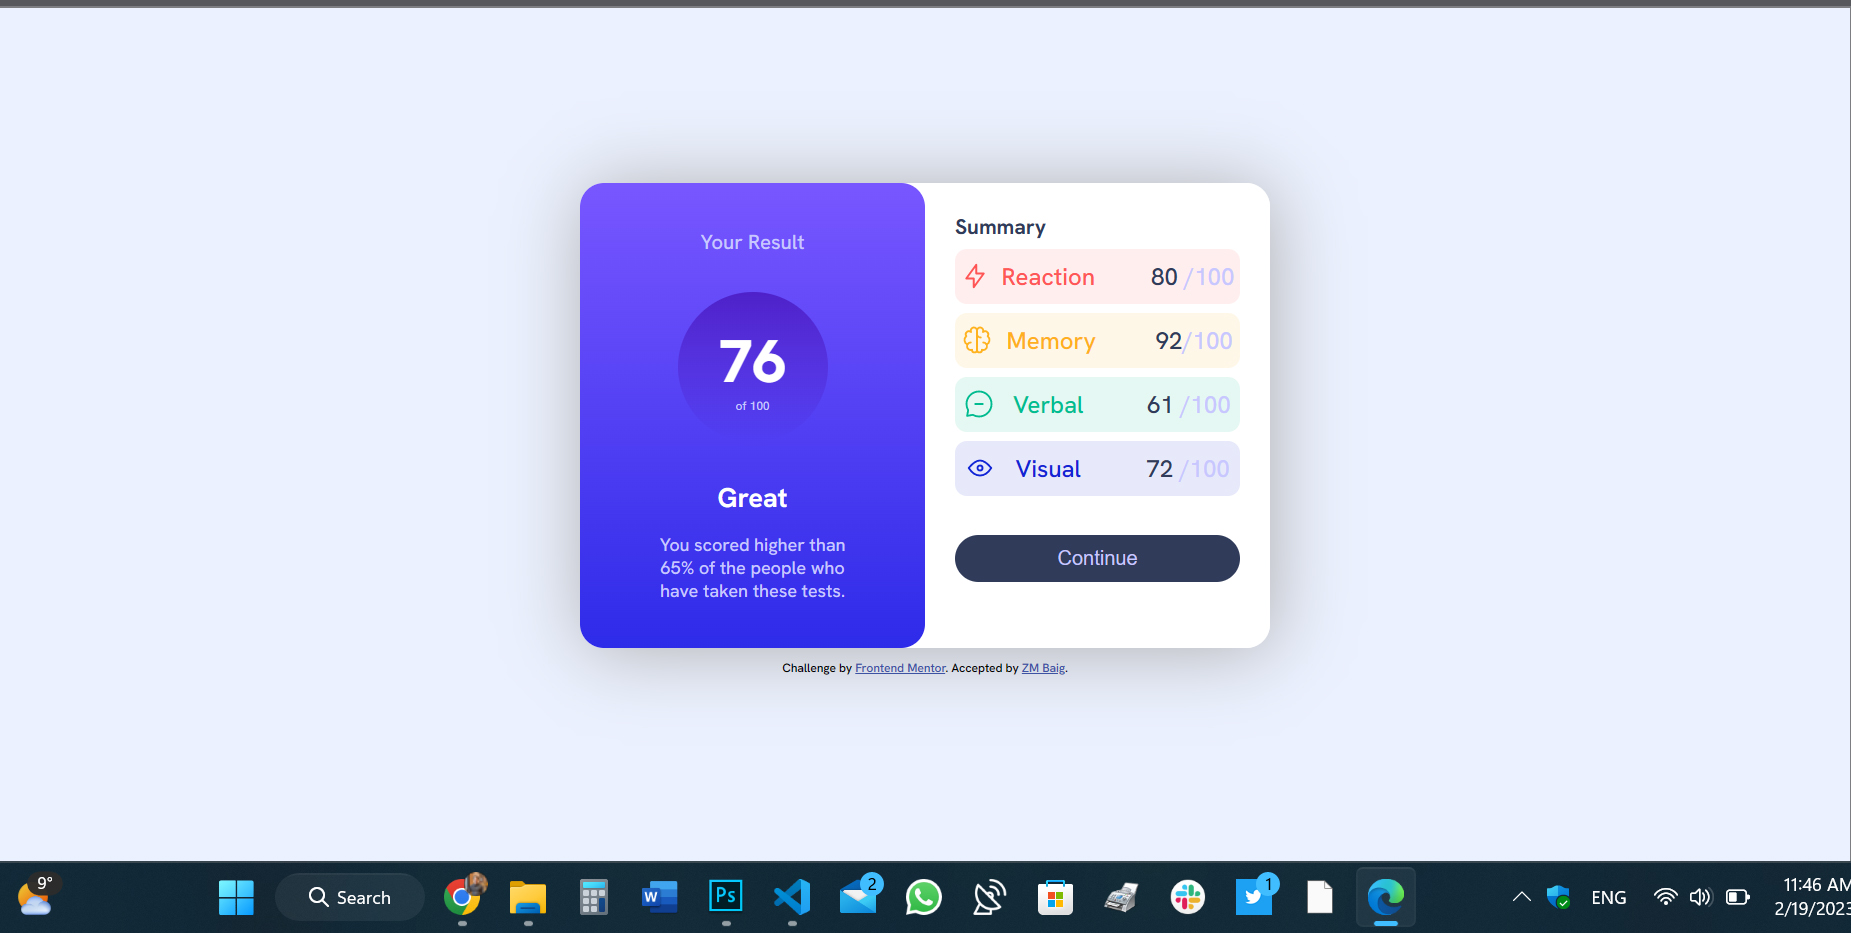
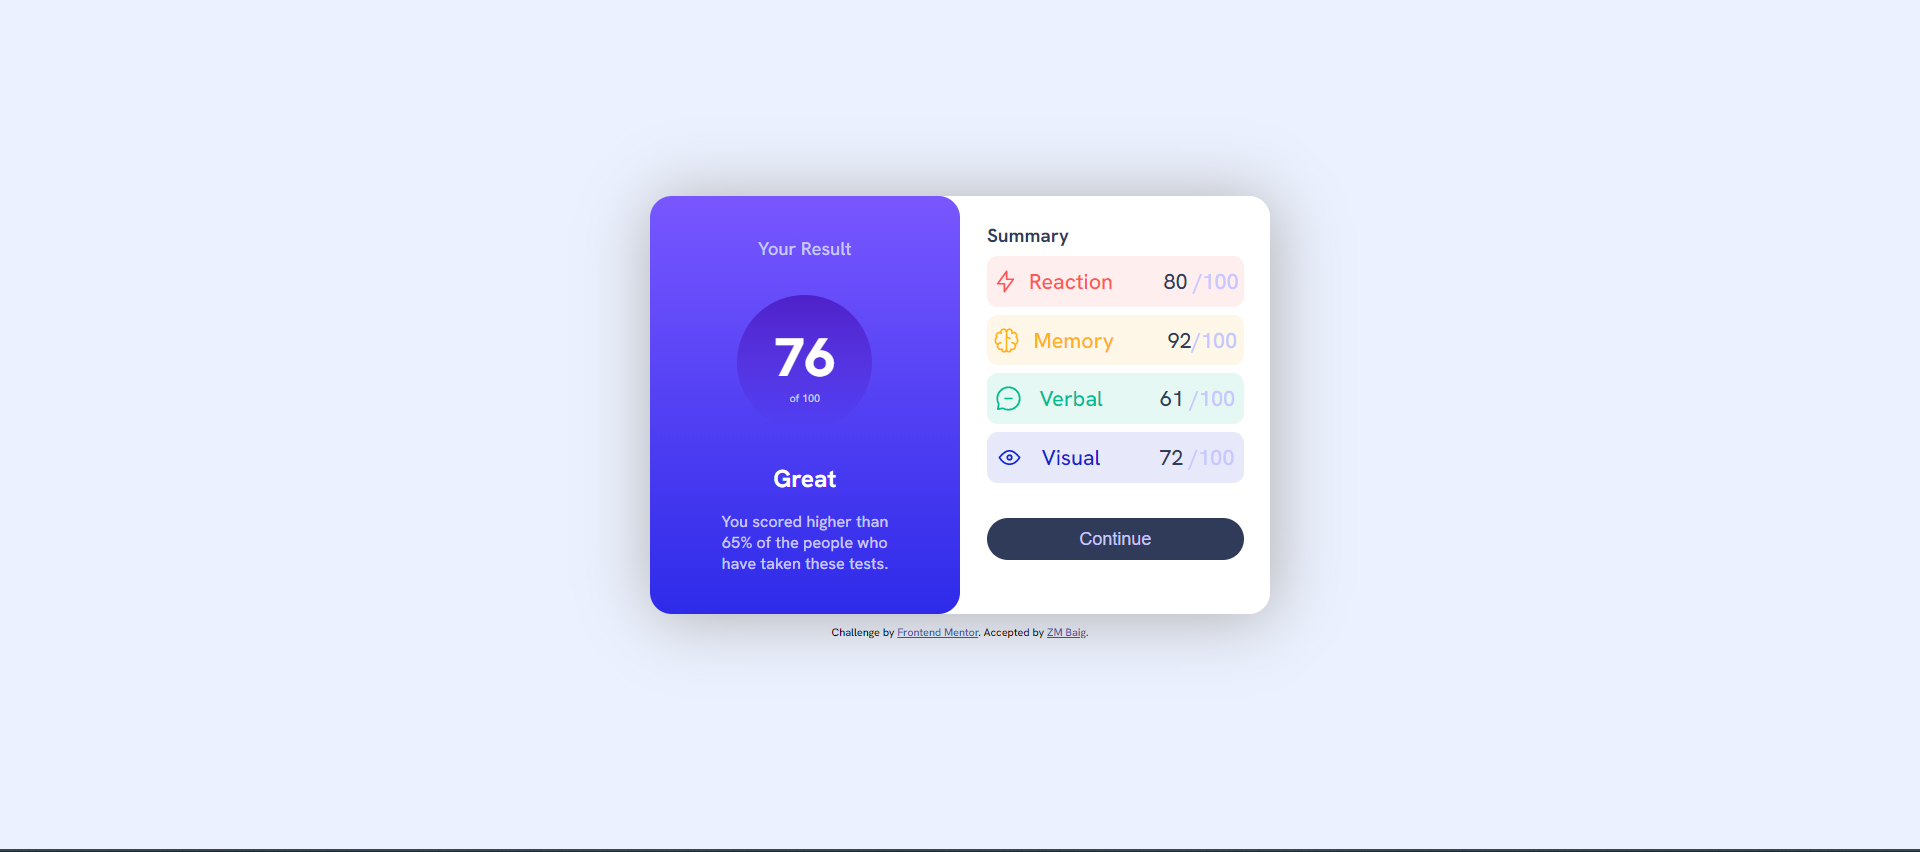
editing

Changed region(s): [[0.3079, 0.1831, 0.7083, 0.7629], [0.0, 0.9155, 1.0, 1.0], [0.0, 0.0, 1.0, 0.0305]]

diff --git a/style.css b/style.css
@@ -24,6 +24,7 @@
 body {
   background-color: hsl(221, 100%, 96%);
   font-family: "Hanken Grotesk", sans-serif;
+  font-size: 18px;
   display: flex;
   flex-direction: column;
   justify-content: center;
@@ -31,19 +32,20 @@ body {
   min-height: 100vh;
 }
 #main__container {
+  display: grid;
+  grid-template-columns: repeat(2, 1fr);
   background-color: hsl(0, 0%, 100%);
-  display: flex;
   max-height: 100vh;
-  border-radius: 16px;
-  max-height: 310px;
-  max-width: 500px;
+  border-radius: 30px;
+  height: 510px;
+  width: 740px;
   box-shadow: 2px 2px 50px rgb(175, 174, 174);
 }
 h1 {
-  font-size: 18px;
+  font-size: 1.5rem;
 }
 h2 {
-  font-size: 14px;
+  font-size: 1.125rem;
 }
 
 ul,
@@ -51,7 +53,6 @@ ol {
   list-style: none;
 }
 .left__card {
-  max-width: 230px;
   display: flex;
   flex-direction: column;
   justify-content: center;
@@ -64,7 +65,7 @@ ol {
   color: hsl(0, 0%, 100%);
   text-align: center;
   padding: 20px;
-  border-radius: 16px;
+  border-radius: 30px;
 }
 ul li:nth-child(1) {
   font-size: 12px;
@@ -76,20 +77,22 @@ ul li:nth-child(2) {
     hsla(256, 72%, 46%, 1),
     hsla(241, 72%, 46%, 0)
   );
-  padding: 20px;
   border-radius: 50%;
-  width: 100px;
-  height: 100px;
+  width: 200px;
+  height: 200px;
   text-align: center;
   margin: 25px 0;
+  display: flex;
+  flex-direction: column;
+  justify-content: center;
 }
 .big-result {
-  font-size: 2.5rem;
+  font-size: 3.125rem;
   font-weight: 800;
 }
 .your-result {
   color: hsl(241, 100%, 89%);
-  font-size: 0.85rem;
+  font-size: 1.125rem;
 }
 .hundred {
   color: hsl(241, 100%, 89%);
@@ -102,16 +105,17 @@ ul li:nth-child(2) span {
 }
 .higher-score {
   color: hsl(241, 100%, 89%);
-  font-size: 12px;
+  font-size: 0.938rem;
   padding: 12px 30px;
+  width: 80%;
 }
 
 /* -------------------------------------Summary card----------------------------------- */
 .right__card {
   background-color: hsl(0, 0%, 100%);
-  padding: 20px;
-  width: 230px;
-  border-radius: 0 16px 16px 0;
+  padding: 40px;
+  border-radius: 0 30px 30px 0;
+  width: 100%;
 }
 .sub__right__card {
   display: grid;
@@ -120,10 +124,9 @@ ol li {
   display: flex;
   align-items: center;
   justify-content: space-around;
-  gap: 30px;
-  padding: 8px 0;
-  border-radius: 8px;
-  margin: 6px 0;
+  padding: 25px 0;
+  border-radius: 10px;
+  margin: 20px 0;
 }
 li > img {
   margin-right: -30px;
@@ -162,35 +165,27 @@ h2 {
 button {
   background: hsl(224, 30%, 27%);
   color: hsl(241, 100%, 89%);
-  padding: 8px;
-  border-radius: 25px;
-  width: 250px;
-  max-width: 100%;
-  margin: 20px 0;
+  padding: 20px;
+  border-radius: 30px;
+  width: 100%;
+  margin: 45px 0;
   border: none;
+  font-size: 18px;
 }
 button:hover {
   background-color: hsl(234, 85%, 45%);
   cursor: pointer;
+  color: hsl(0, 0%, 100%);
 }
-/* -------------------------------------Footer----------------------------------- */
-
-.attribution {
-  font-size: 8px;
-  text-align: center;
-  padding: 8px 0;
-}
-.attribution a {
-  color: hsl(228, 45%, 44%);
-}
-/* -------------------------------------Media Query----------------------------------- */
 
 @media screen and (max-width: 768px) {
   #main__container {
     display: flex;
     flex-direction: column;
-    border-radius: 16px 16px 0 0;
-    max-height: 100%;
+    border-radius: 30px 30px 0 0;
+    width: 100%;
+    height: 100%;
+    padding: 1rem;
   }
   .right__card {
     border-radius: 0;

diff --git a/index.html b/index.html
@@ -23,7 +23,7 @@
           </li>
           <li>
             <p class="big-result">76</p>
-            <br /><span class="hundred"> of 100</span>
+            <p class="hundred">of 100</p>
           </li>
         </ul>
         <h1>Great</h1>
@@ -63,21 +63,5 @@
         <button>Continue</button>
       </section>
     </main>
-    <footer class="attribution">
-      Challenge by
-      <a
-        href="https://www.frontendmentor.io?ref=challenge"
-        target="_blank"
-        rel="noopener"
-        >Frontend Mentor</a
-      >. Accepted by
-      <a
-        href="https://www.frontendmentor.io/profile/ZMBAIG"
-        target="_blank"
-        rel="noopener"
-      >
-        ZM Baig</a
-      >.
-    </footer>
   </body>
 </html>
